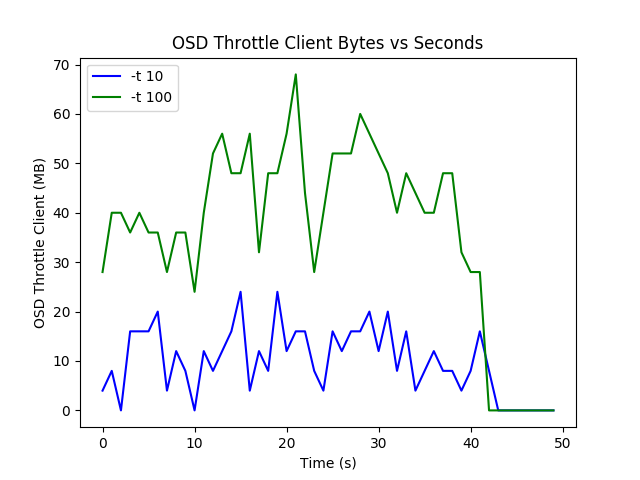
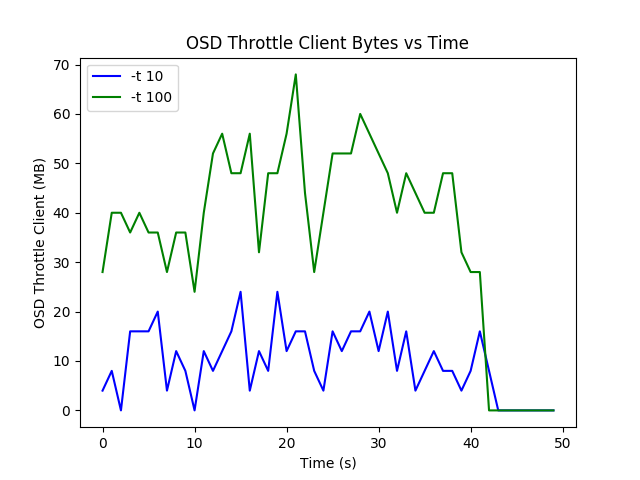
add titles

Changed region(s): [[0.2812, 0.0625, 0.75, 0.125]]

diff --git a/plotpart3_osd_df.py b/plotpart3_osd_df.py
@@ -3,7 +3,7 @@ matplotlib.use('Agg')
 import matplotlib.pyplot as plt
 import numpy as np
 
-filename = "part3_b4M.log"
+filename = "part3_b4K.log"
 hdds = 3
 hdd_logs = []
 for h in range(hdds):
@@ -35,8 +35,9 @@ f.close()
 plt.plot(np.arange(second_count), hdd_logs[0]["Use"], '-b', label='hdd0')
 plt.plot(np.arange(second_count), hdd_logs[1]["Use"], '-g', label='hdd1')
 plt.plot(np.arange(second_count), hdd_logs[2]["Use"], '-r', label='hdd2')
+plt.title('OSD Disk Usage vs Time')
 plt.legend(loc='upper left')
 plt.xlabel('Time (s)')
 plt.ylabel('Disk Usage (GiB)')
-plt.savefig("disk_b4M.png")
+plt.savefig("disk_b4K.png")
 plt.show()

diff --git a/plotpart3_osd_throttle.py b/plotpart3_osd_throttle.py
@@ -35,7 +35,7 @@ logs_t100, second_count = parse_logs(t100file)
 
 plt.plot(np.arange(second_count), logs_t10, '-b', label='-t 10')
 plt.plot(np.arange(second_count), logs_t100, '-g', label='-t 100')
-plt.title('OSD Throttle Client Bytes vs Seconds')
+plt.title('OSD Throttle Client Bytes vs Time')
 plt.legend(loc='upper left')
 plt.xlabel('Time (s)')
 plt.ylabel('OSD Throttle Client (MB)')
